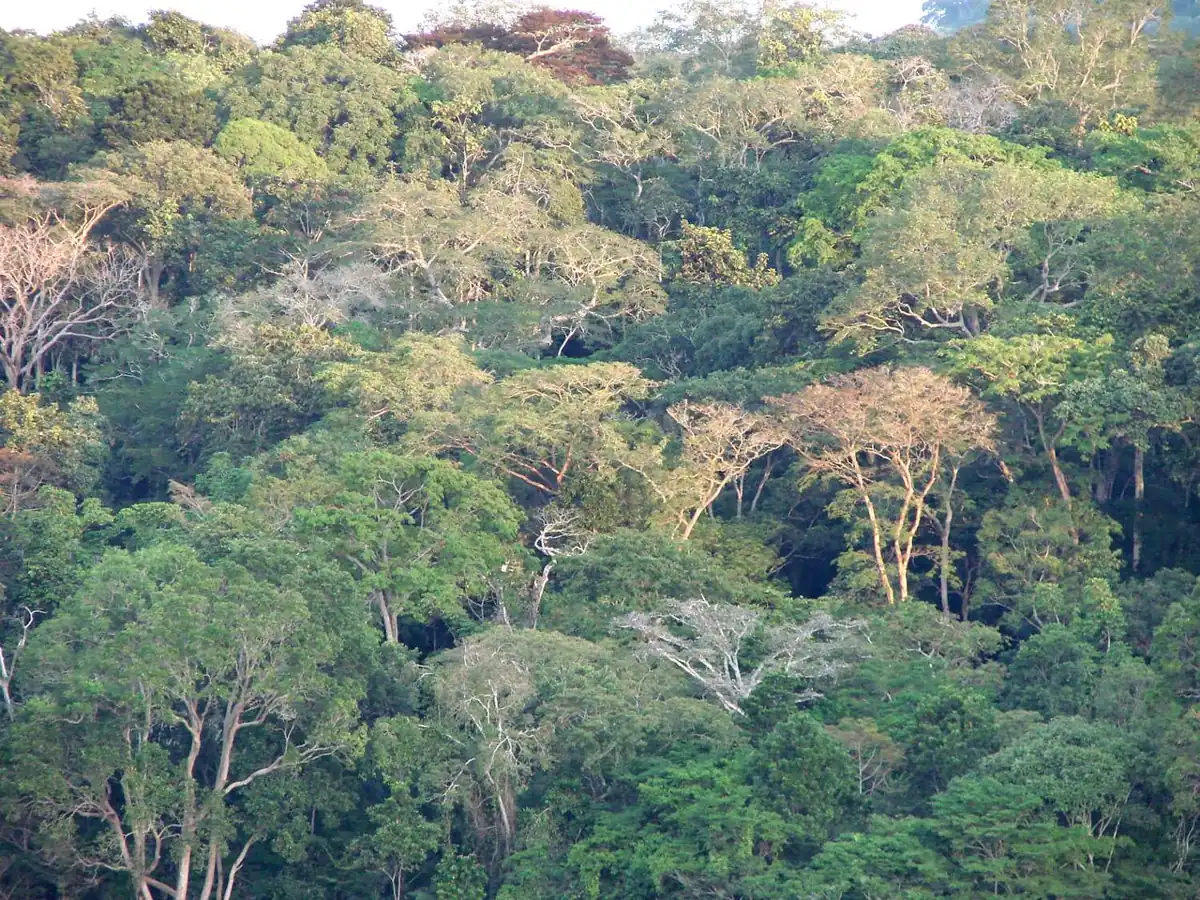
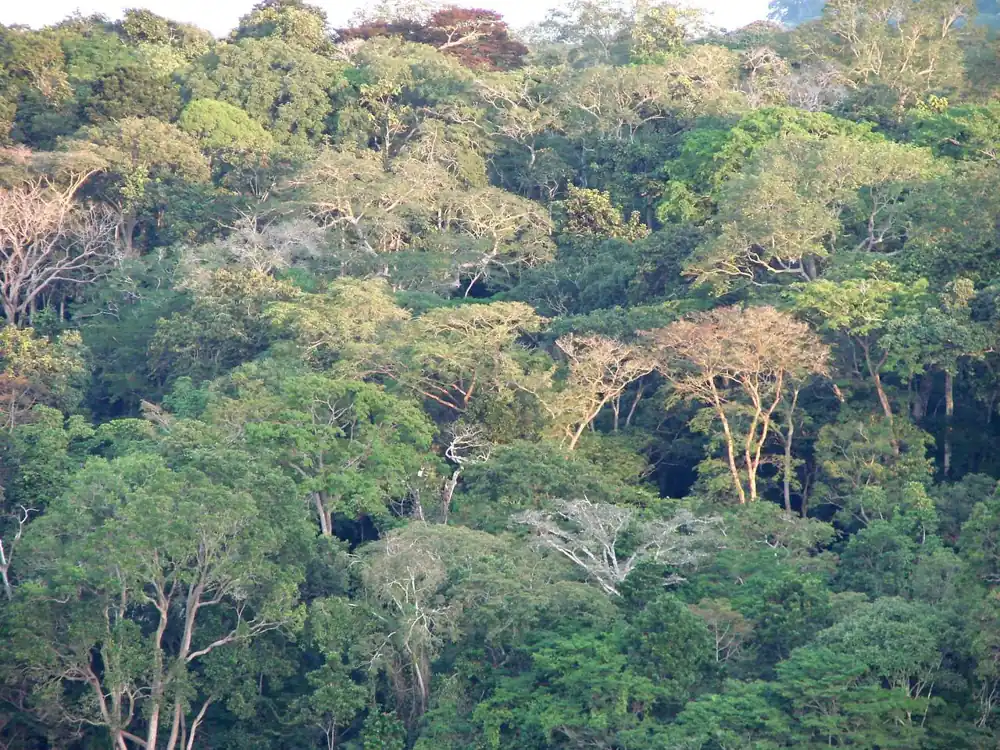
fix(portal): recover from stale chunks after deploys; lighter photos; keep Back to hub
Lazy pages reload once when their chunk is gone after a new deploy
instead of showing a render error. Every photo at or under ~125 KB.
Back to hub stays on a sign-in opened from the hub.

diff --git a/src/App.jsx b/src/App.jsx
@@ -1,5 +1,23 @@
 import React, { useState, useEffect, Component } from 'react';
 
+// After a new deploy the page chunks get new file names; a tab opened before
+// the deploy still asks for the old ones and the import fails ("Failed to
+// fetch dynamically imported module"). Reload once to pick up the new build
+// instead of showing an error.
+const RELOAD_KEY = 'fi_chunk_reload';
+const isChunkError = (e) => /Failed to fetch dynamically imported module|Importing a module script failed|error loading dynamically imported module/i.test(String(e?.message || e));
+const lazyWithReload = (factory) => React.lazy(() => factory().then(
+  (m) => { sessionStorage.removeItem(RELOAD_KEY); return m; },
+  (e) => {
+    if (isChunkError(e) && !sessionStorage.getItem(RELOAD_KEY)) {
+      sessionStorage.setItem(RELOAD_KEY, '1');
+      window.location.reload();
+      return new Promise(() => {}); // keep the loading state until the reload
+    }
+    throw e;
+  },
+));
+
 class ErrorBoundary extends Component {
   constructor(props) { super(props); this.state = { error: null }; }
   static getDerivedStateFromError(err) { return { error: err }; }
@@ -30,42 +48,42 @@ import PortalLayout from './layouts/PortalLayout';
 // chunk is only fetched when its route actually renders.
 
 // === FFB Management ===
-const FFBDashboard = React.lazy(() => import('./modules/management/ffb/Dashboard'));
+const FFBDashboard = lazyWithReload(() => import('./modules/management/ffb/Dashboard'));
 
 // === Crop Management Portals ===
-const CashewDashboard = React.lazy(() => import('./modules/management/cashew/Dashboard'));
-const SugarcaneDashboard = React.lazy(() => import('./modules/management/sugarcane/Dashboard'));
-const RiceDashboard = React.lazy(() => import('./modules/management/rice/Dashboard'));
-const CocoaDashboard = React.lazy(() => import('./modules/management/cocoa/Dashboard'));
-const RubberDashboard = React.lazy(() => import('./modules/management/rubber/Dashboard'));
-const CassavaDashboard = React.lazy(() => import('./modules/management/cassava/Dashboard'));
-const MaizeDashboard = React.lazy(() => import('./modules/management/maize/Dashboard'));
+const CashewDashboard = lazyWithReload(() => import('./modules/management/cashew/Dashboard'));
+const SugarcaneDashboard = lazyWithReload(() => import('./modules/management/sugarcane/Dashboard'));
+const RiceDashboard = lazyWithReload(() => import('./modules/management/rice/Dashboard'));
+const CocoaDashboard = lazyWithReload(() => import('./modules/management/cocoa/Dashboard'));
+const RubberDashboard = lazyWithReload(() => import('./modules/management/rubber/Dashboard'));
+const CassavaDashboard = lazyWithReload(() => import('./modules/management/cassava/Dashboard'));
+const MaizeDashboard = lazyWithReload(() => import('./modules/management/maize/Dashboard'));
 
-const MonitoringPortal = React.lazy(() => import('./modules/monitoring/MonitoringPortal'));
+const MonitoringPortal = lazyWithReload(() => import('./modules/monitoring/MonitoringPortal'));
 
 // === Sustainability, Field Advisory & Finance ===
 // One portal for all of them: the organisation monitoring layout with the
 // sub-pages each service defines in modules/services/serviceCatalog.js.
-const ServicePortal = React.lazy(() => import('./modules/services/ServicePortal'));
+const ServicePortal = lazyWithReload(() => import('./modules/services/ServicePortal'));
 
 // === Specialized Monitoring Apps ===
-const RiceMonitoring = React.lazy(() => import('./modules/monitoring/rice/Monitoring'));
-const MaizeMonitoring = React.lazy(() => import('./modules/monitoring/maize/Monitoring'));
-const CocoaMonitoring = React.lazy(() => import('./modules/monitoring/cocoa/Monitoring'));
-const OilPalmMonitoring = React.lazy(() => import('./modules/monitoring/oil_palm/Monitoring'));
-const CassavaMonitoring = React.lazy(() => import('./modules/monitoring/cassava/Monitoring'));
-const SugarcaneMonitoring = React.lazy(() => import('./modules/monitoring/sugarcane/Monitoring'));
-const CashewMonitoring = React.lazy(() => import('./modules/monitoring/cashew/Monitoring'));
-const RubberMonitoring = React.lazy(() => import('./modules/monitoring/rubber/Monitoring'));
+const RiceMonitoring = lazyWithReload(() => import('./modules/monitoring/rice/Monitoring'));
+const MaizeMonitoring = lazyWithReload(() => import('./modules/monitoring/maize/Monitoring'));
+const CocoaMonitoring = lazyWithReload(() => import('./modules/monitoring/cocoa/Monitoring'));
+const OilPalmMonitoring = lazyWithReload(() => import('./modules/monitoring/oil_palm/Monitoring'));
+const CassavaMonitoring = lazyWithReload(() => import('./modules/monitoring/cassava/Monitoring'));
+const SugarcaneMonitoring = lazyWithReload(() => import('./modules/monitoring/sugarcane/Monitoring'));
+const CashewMonitoring = lazyWithReload(() => import('./modules/monitoring/cashew/Monitoring'));
+const RubberMonitoring = lazyWithReload(() => import('./modules/monitoring/rubber/Monitoring'));
 
 // === Cooperative & Group Management ===
-const GroupsDashboard = React.lazy(() => import('./modules/cooperative/Dashboard'));
+const GroupsDashboard = lazyWithReload(() => import('./modules/cooperative/Dashboard'));
 
-const OrganizationMonitor = React.lazy(() => import('./modules/organization-monitor/OrganizationMonitor'));
+const OrganizationMonitor = lazyWithReload(() => import('./modules/organization-monitor/OrganizationMonitor'));
 
 // === Super Admin Portal ===
 import AdminLogin from './farmintelytics-admin/AdminLogin';
-const AdminPortal = React.lazy(() => import('./farmintelytics-admin/AdminPortal'));
+const AdminPortal = lazyWithReload(() => import('./farmintelytics-admin/AdminPortal'));
 
 import { crops } from './constants/crops.jsx';
 import { isServiceModule } from './modules/services/serviceCatalog';
@@ -155,6 +173,7 @@ const HubPage = () => {
 
   const handleSelectModule = (moduleId) => {
     sessionStorage.setItem('fi_module', moduleId);
+    sessionStorage.setItem('fi_from_hub', '1'); // keeps "Back to hub" on the sign-in even if the team token expires
     navigate(`/login?module=${encodeURIComponent(moduleId)}`);
   };
   const handleSignOut = () => {
@@ -210,7 +229,8 @@ const LoginPage = () => {
   const handleLogin = () => navigate(portalPath);
   // Clients arriving by direct link never see a way back to the internal hub;
   // the FarmIntelytics team (signed in to the hub) always does.
-  const handleBack  = (RESTRICTED_MODULE || ((directTenant || directModule) && !hasValidTeamSession())) ? null : () => navigate('/');
+  const cameFromHub = hasValidTeamSession() || sessionStorage.getItem('fi_from_hub') === '1';
+  const handleBack  = (RESTRICTED_MODULE || ((directTenant || directModule) && !cameFromHub)) ? null : () => navigate('/');
 
   return (
     <Login
